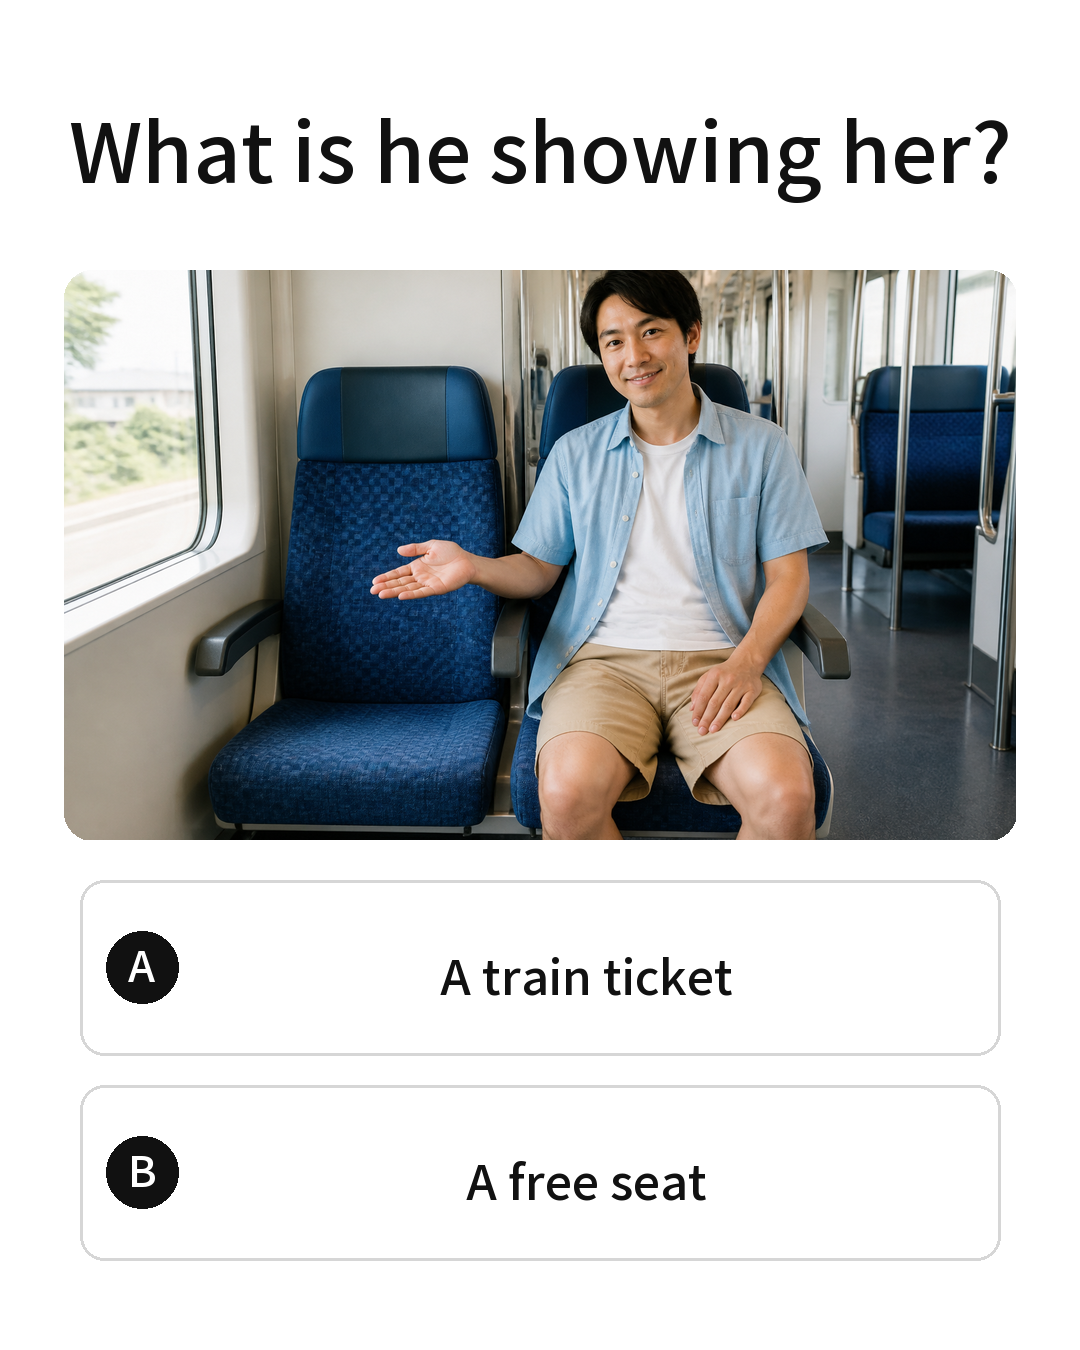
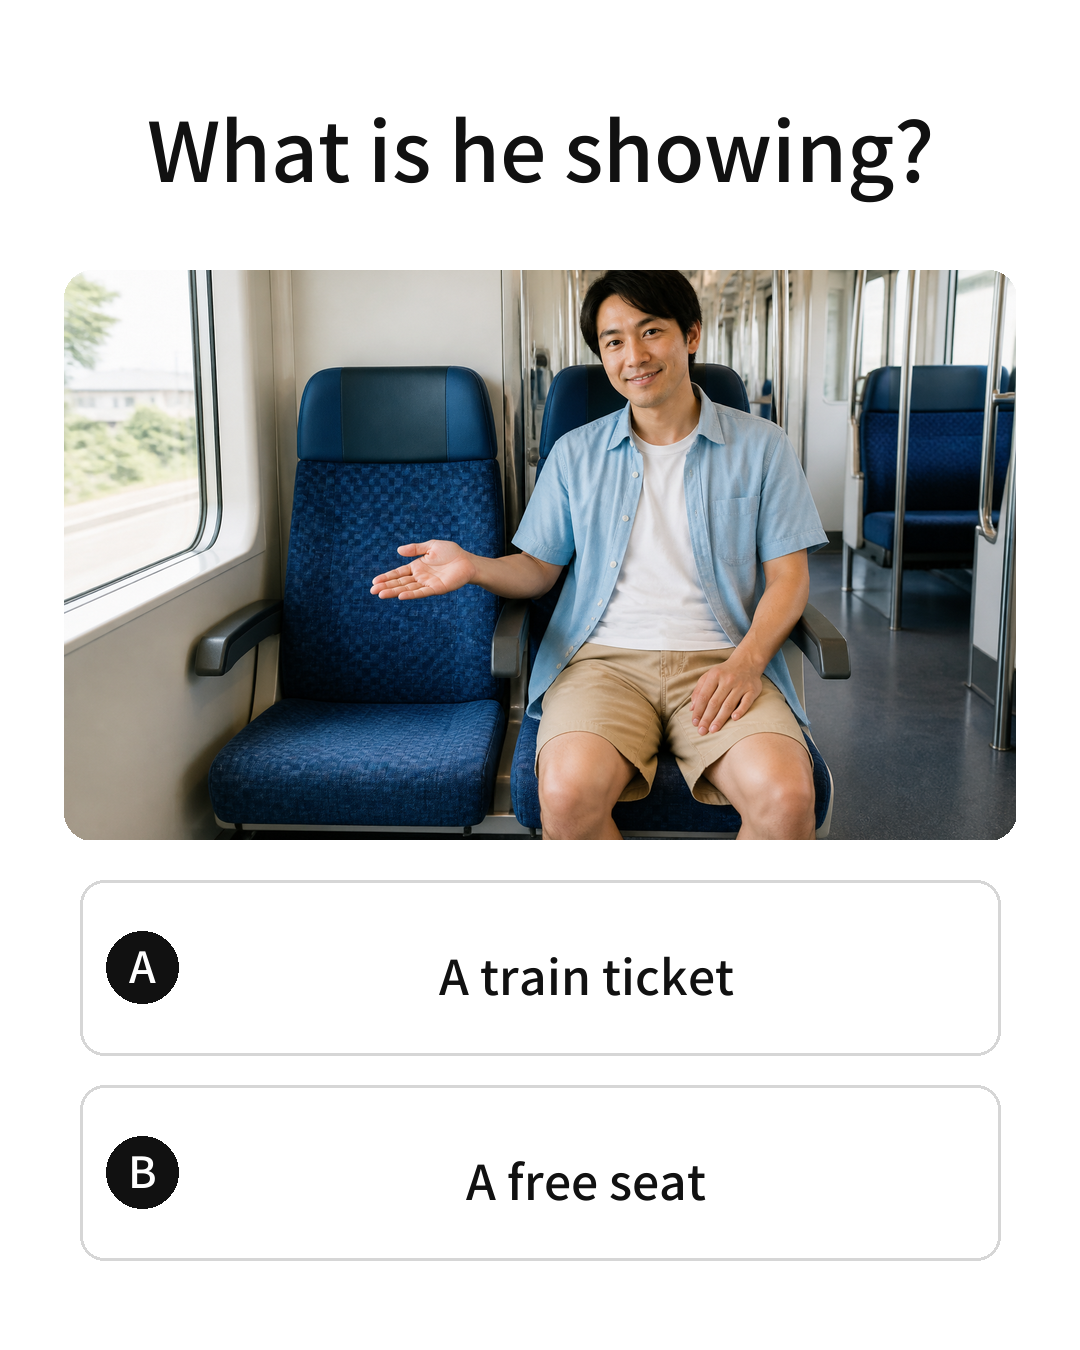
Adopt pragmatic visual quality gate

diff --git a/tests/test_visual_pragmatic_quality.py b/tests/test_visual_pragmatic_quality.py
@@ -1,0 +1,54 @@
+import unittest
+import json
+from pathlib import Path
+
+from threads_automation.visual_quality import VisualQualityError, validate_visual_quality_gate
+
+
+def valid_visual():
+    return {
+        "format": "visual", "visual_required": True,
+        "visual_quality_gate": {
+            "object_consistency": True, "action_consistency": True,
+            "state_consistency": True, "pragmatic_consistency": True,
+            "answer_uniqueness": True, "english_knowledge_required": True,
+            "scene": {"subject": "a man", "addressee": "none",
+                      "action": "points to an empty seat", "state": "the adjacent seat is empty",
+                      "utterance_reason": "the question asks what he indicates",
+                      "contradiction_check": "no referenced person or state contradicts the answer"},
+        },
+    }
+
+
+class VisualPragmaticQualityTests(unittest.TestCase):
+    def test_valid_scene_passes(self): validate_visual_quality_gate(valid_visual())
+
+    def test_each_quality_dimension_fails_closed(self):
+        for field in ("object_consistency", "action_consistency", "state_consistency",
+                      "pragmatic_consistency", "answer_uniqueness", "english_knowledge_required"):
+            record = valid_visual(); record["visual_quality_gate"][field] = False
+            with self.assertRaises(VisualQualityError, msg=field): validate_visual_quality_gate(record)
+
+    def test_you_can_sit_here_scene_is_negative_regression(self):
+        record = valid_visual()
+        record["content_id"] = "ENG-000034"
+        record["visual_quality_gate"]["scene"] = {
+            "subject": "a standing woman", "addressee": "a seated man",
+            "action": "the woman gestures toward the man and chair", "state": "the man is already seated",
+            "utterance_reason": "the metadata claims she is inviting him to sit",
+            "contradiction_check": "You can sit here conflicts with the addressee already sitting",
+        }
+        record["visual_quality_gate"]["pragmatic_consistency"] = False
+        with self.assertRaisesRegex(VisualQualityError, "pragmatic_consistency"):
+            validate_visual_quality_gate(record)
+
+    def test_eng_000046_approved_revision_passes(self):
+        master = json.loads((Path(__file__).parents[1] / "data/master/quiz/ENG-000046.json").read_text())
+        validate_visual_quality_gate(master)
+
+    def test_scene_evidence_is_required(self):
+        record = valid_visual(); record["visual_quality_gate"]["scene"]["state"] = ""
+        with self.assertRaisesRegex(VisualQualityError, "scene evidence"): validate_visual_quality_gate(record)
+
+
+if __name__ == "__main__": unittest.main()

diff --git a/src/threads_automation/visual_quality.py b/src/threads_automation/visual_quality.py
@@ -1,0 +1,36 @@
+from __future__ import annotations
+
+
+QUALITY_FIELDS = (
+    "object_consistency",
+    "action_consistency",
+    "state_consistency",
+    "pragmatic_consistency",
+    "answer_uniqueness",
+    "english_knowledge_required",
+)
+SCENE_FIELDS = ("subject", "addressee", "action", "state", "utterance_reason", "contradiction_check")
+
+
+class VisualQualityError(ValueError):
+    pass
+
+
+def validate_visual_quality_gate(record: dict) -> None:
+    if record.get("format") != "visual" or record.get("visual_required") is not True:
+        return
+    gate = record.get("visual_quality_gate")
+    if not isinstance(gate, dict):
+        raise VisualQualityError("visual_quality_gate is required for Visual production candidates")
+    missing = set(QUALITY_FIELDS) - set(gate)
+    if missing:
+        raise VisualQualityError(f"visual quality fields missing: {sorted(missing)}")
+    failed = [field for field in QUALITY_FIELDS if gate.get(field) is not True]
+    if failed:
+        raise VisualQualityError(f"visual quality gate failed: {failed}")
+    scene = gate.get("scene")
+    if not isinstance(scene, dict):
+        raise VisualQualityError("visual quality scene review is required")
+    empty = [field for field in SCENE_FIELDS if not isinstance(scene.get(field), str) or not scene[field].strip()]
+    if empty:
+        raise VisualQualityError(f"visual scene evidence missing: {empty}")

diff --git a/tests/test_visual_semantics.py b/tests/test_visual_semantics.py
@@ -47,8 +47,8 @@ class VisualSemanticTests(unittest.TestCase):
         for question, choices, answer, completed in (
             ("What is she offering to do?", ["open the door","carry the boxes"],
              "carry the boxes", "She is offering to carry the boxes."),
-            ("What is he showing her?", ["A ticket","A free seat"],
-             "A free seat", "He is showing her a free seat."),
+            ("What is he showing?", ["A ticket","A free seat"],
+             "A free seat", "He is showing a free seat."),
             ("She is walking ___ the stairs.", ["up","down"], "up",
              "She is walking up the stairs.")):
             validate_format_master(self._canonical_visual(question,choices,answer,completed))
